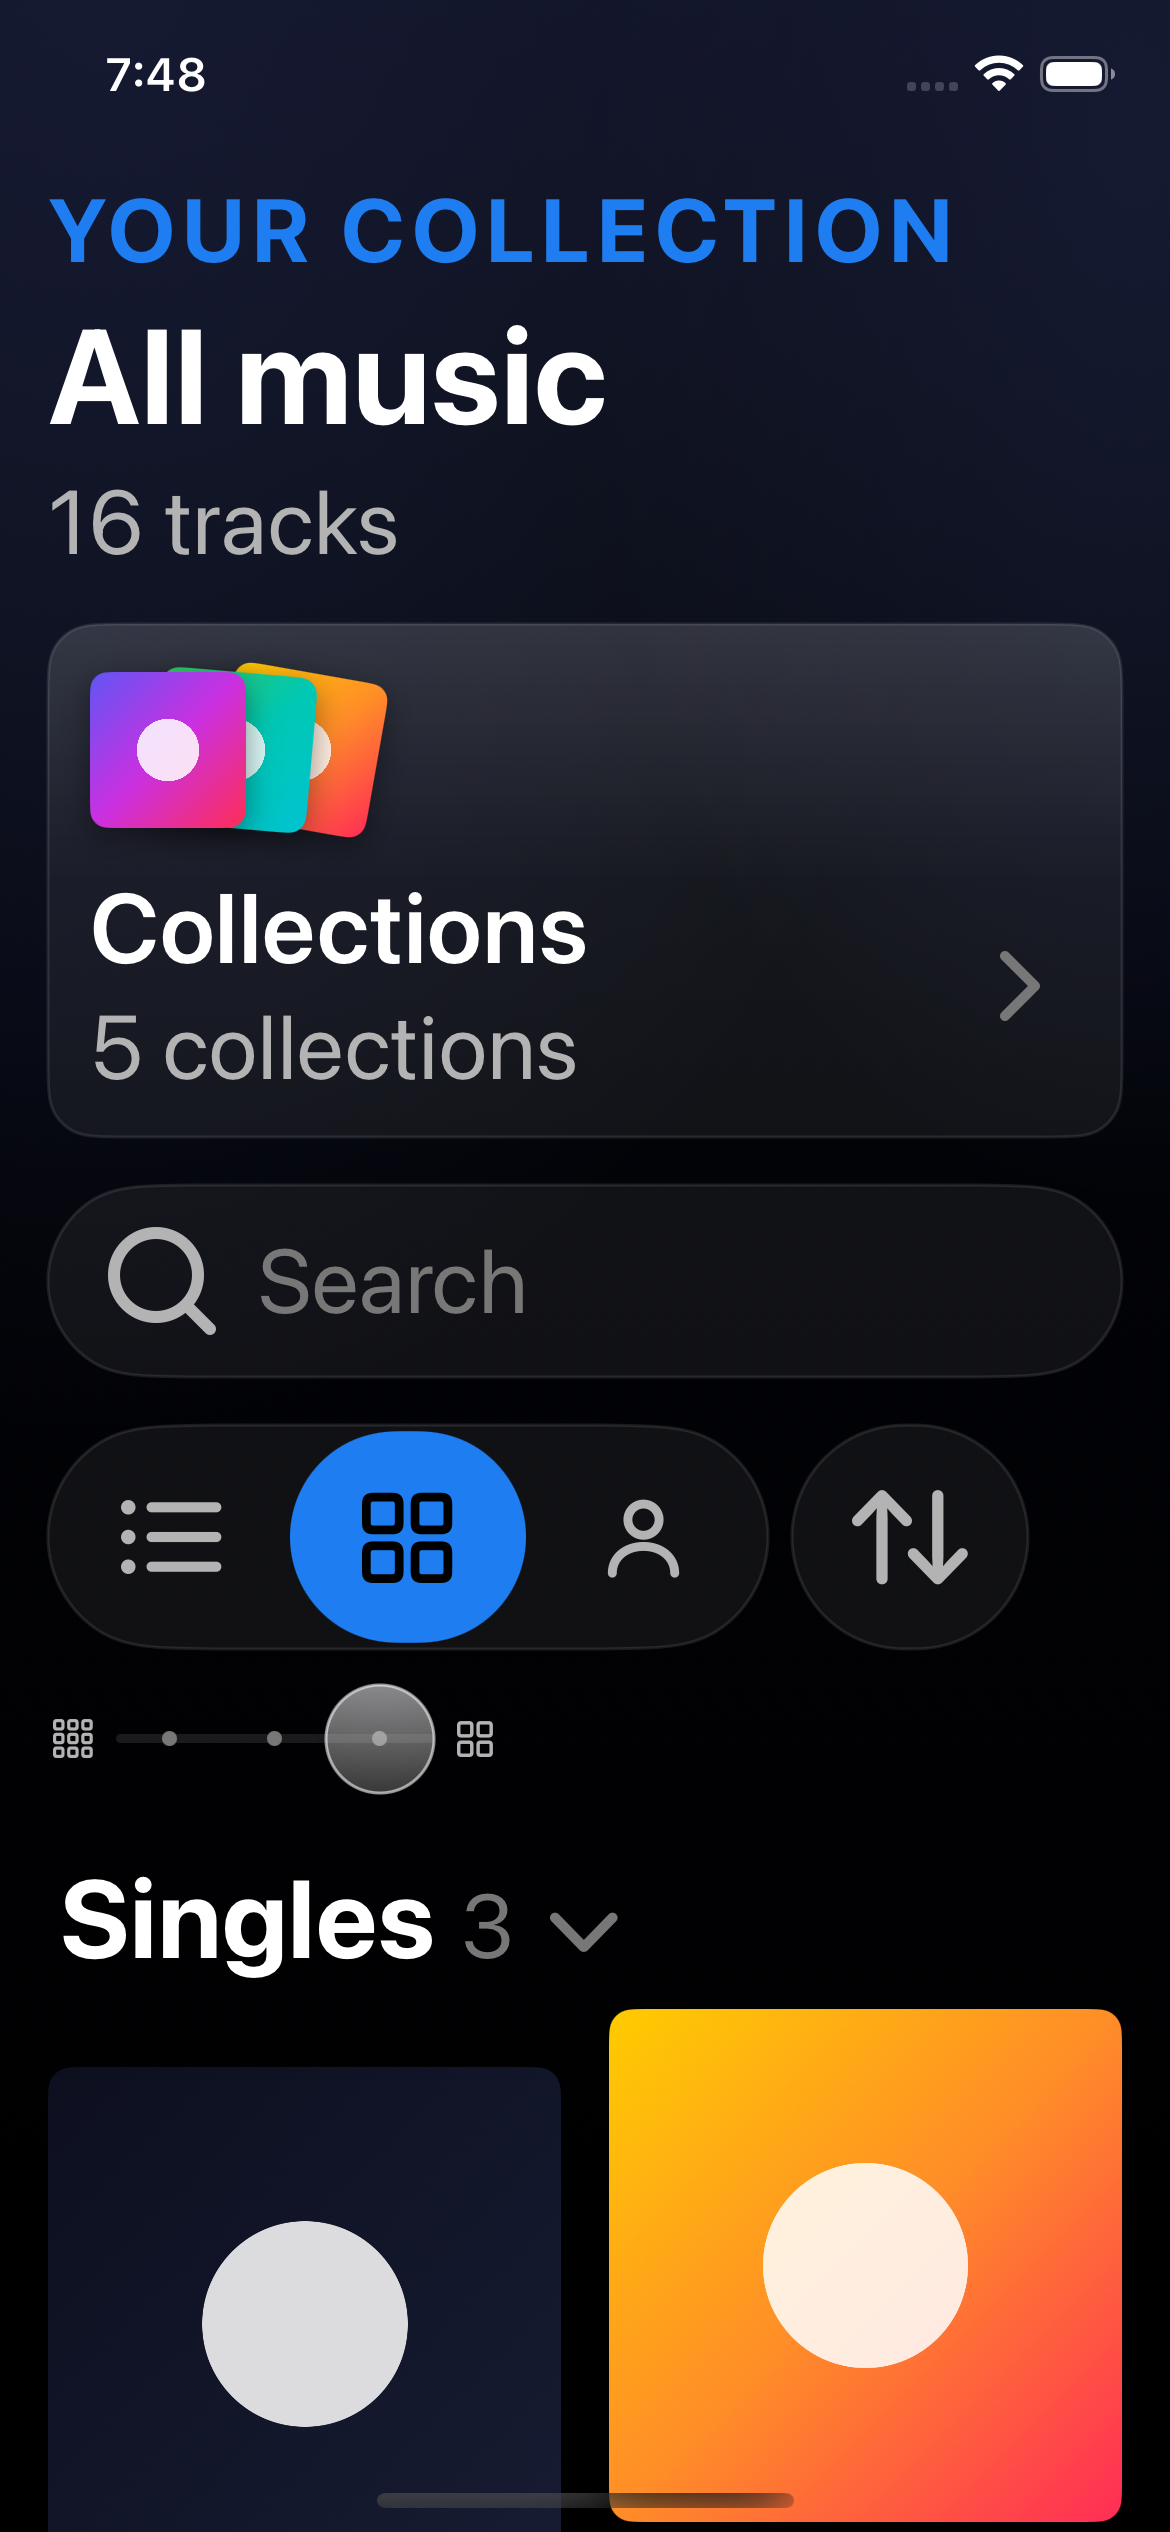
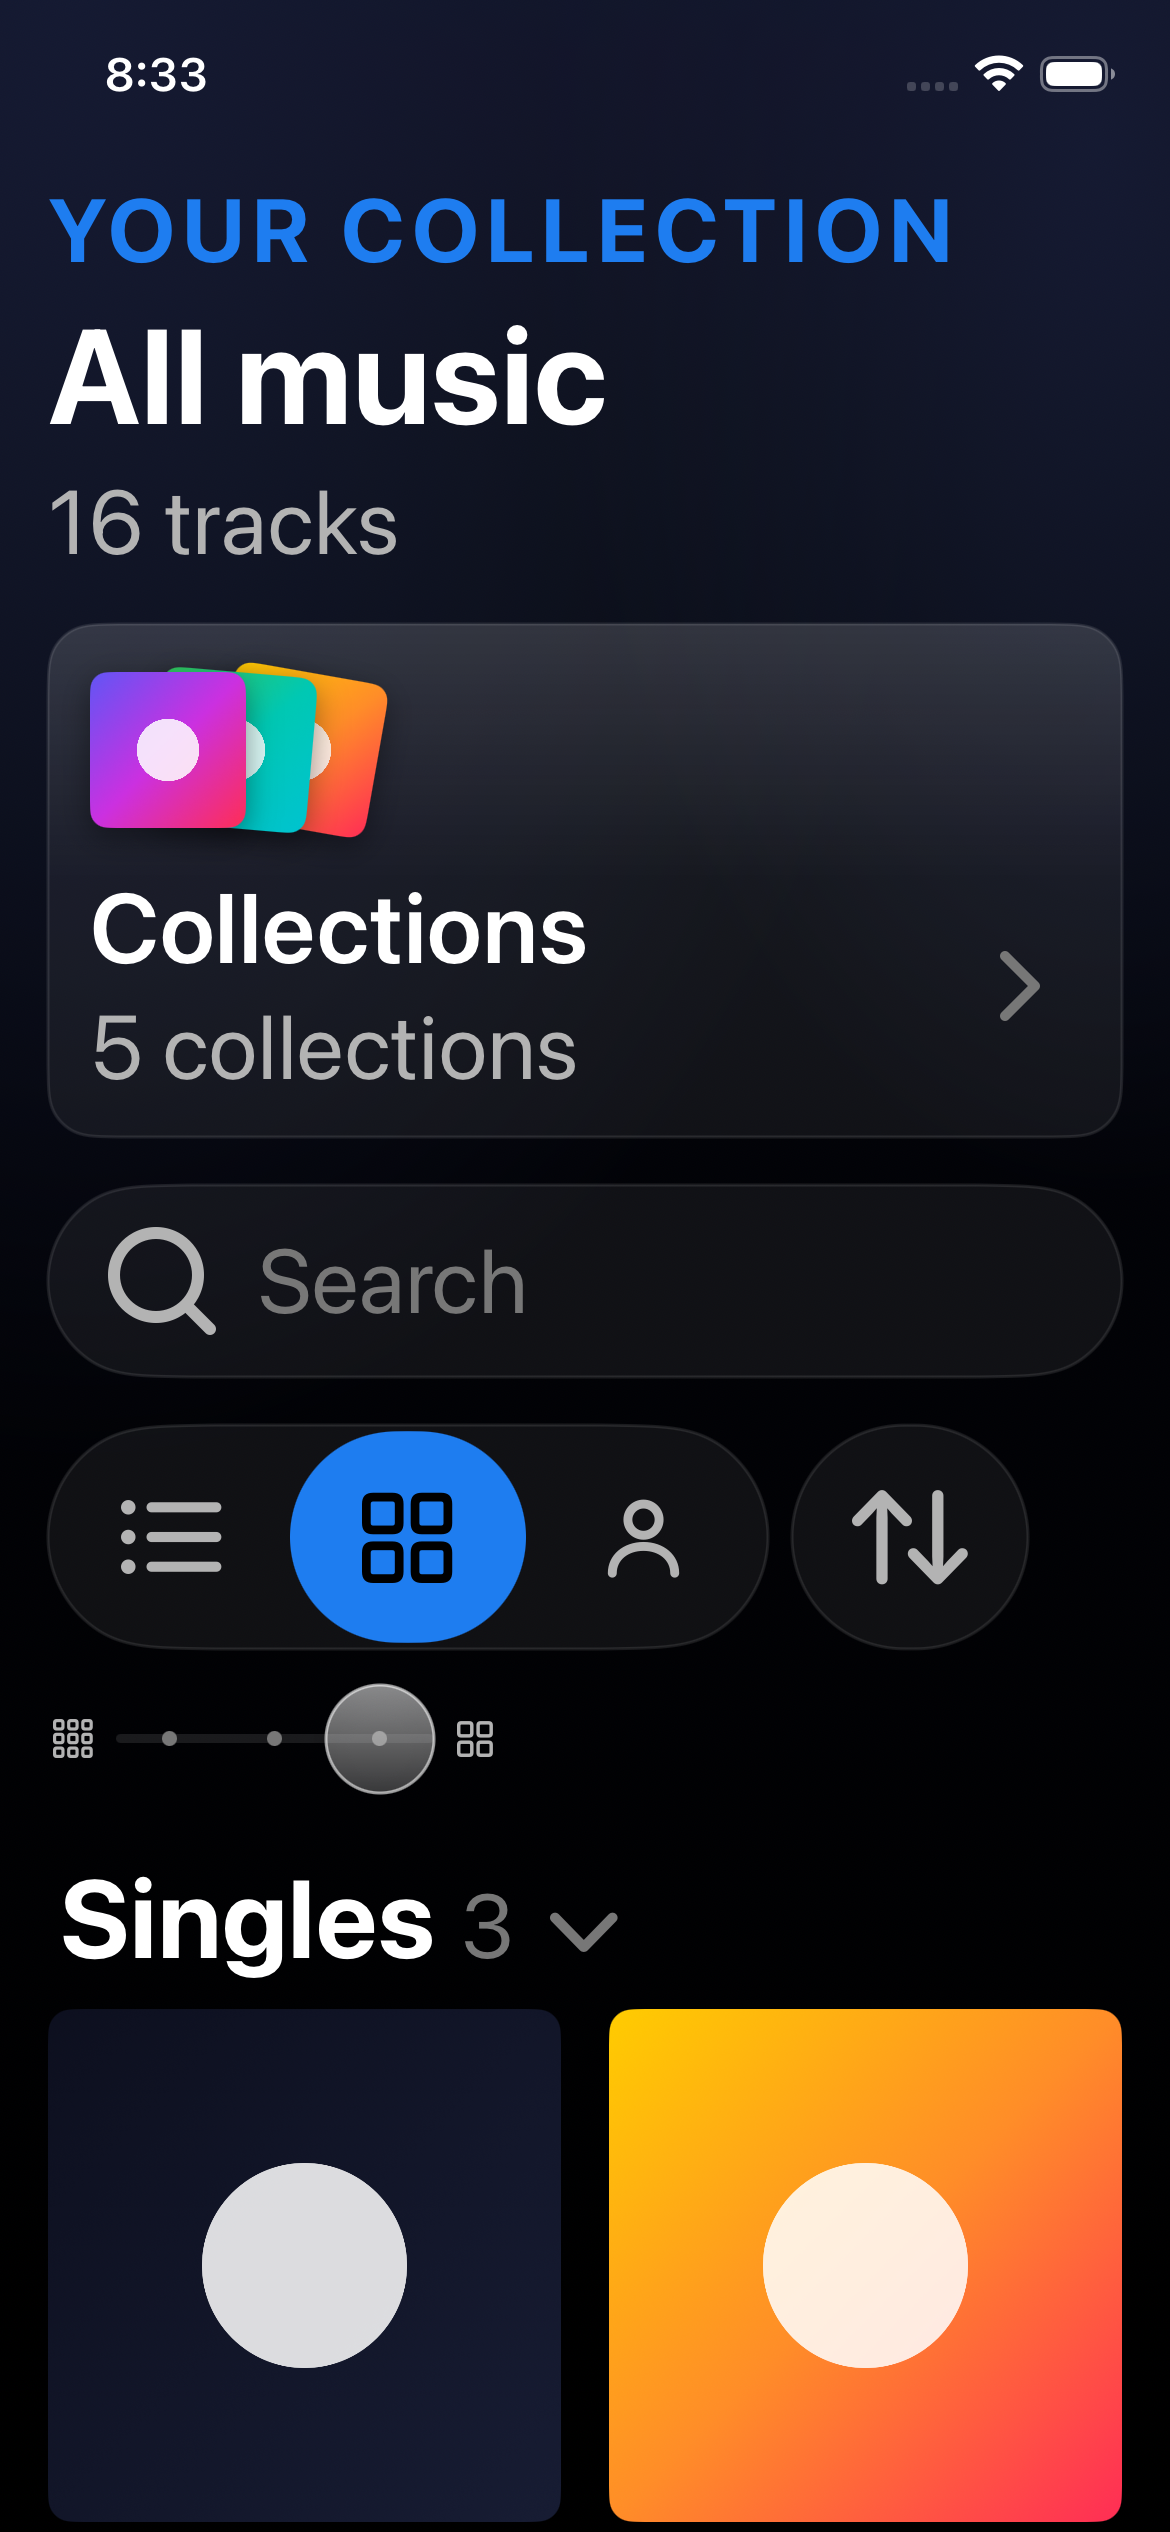
Fix #360 review: top-align cover grid, drop dead new-collection alert, test slider logic

Changed region(s): [[0.0308, 0.78, 0.6769, 1.0], [0.0923, 0.0, 0.1538, 0.0312]]

diff --git a/apps/ios/Locally/Views/Library/LibraryView.swift b/apps/ios/Locally/Views/Library/LibraryView.swift
@@ -71,10 +71,7 @@ struct LibraryView: View {
     @State private var path = NavigationPath()
     /// The collections (#350): the row under the title, the Collections screen and a collection's queue share it.
     @State private var collections: CollectionsModel?
-    @State private var isNamingCollection = false
-    @State private var newCollectionName = ""
     /// A New collection whose save failed: an alert says so and offers the name again.
-    @State private var collectionCreateFailed = false
 
     /// A release's cover identity: a replaced cover bumps `updatedAt`.
     private struct CoverKey: Hashable {
@@ -228,18 +225,6 @@ struct LibraryView: View {
                 if let collections {
                     CollectionDetailView(model: collections, id: route.id, startsEditing: route.startsEditing) { path = NavigationPath() }
                 }
-            }
-            .nameAlert(Copy.Collections.nameTitle, action: Copy.Collections.create, isPresented: $isNamingCollection, text: $newCollectionName) { name in
-                do {
-                    if let id = try collections?.create(name: name) { path.append(CollectionRoute(id: id)) }
-                } catch {
-                    newCollectionName = name
-                    collectionCreateFailed = true
-                }
-            }
-            .alert(Copy.Collections.createFailed, isPresented: $collectionCreateFailed) {
-                Button(Copy.Collections.tryAgain) { isNamingCollection = true }
-                Button(Copy.Collections.cancel, role: .cancel) { newCollectionName = "" }
             }
             // `.onAppear` (not `.task`) so returning from `ReleaseDetailView`
             // after a save/delete re-reads the store and reflects it here.
@@ -657,7 +642,7 @@ struct LibraryView: View {
 
     private func coverGrid(_ items: [Release]) -> some View {
         LazyVGrid(
-            columns: [GridItem(.adaptive(minimum: gridSize.tileMinWidth), spacing: gridSize.tileGap)],
+            columns: [GridItem(.adaptive(minimum: gridSize.tileMinWidth), spacing: gridSize.tileGap, alignment: .top)],
             spacing: gridSize.tileGap
         ) {
             ForEach(items) { release in

diff --git a/apps/ios/LocallyTests/LibraryViewPrefsTests.swift b/apps/ios/LocallyTests/LibraryViewPrefsTests.swift
@@ -72,4 +72,24 @@ import Testing
         #expect(!size.showsSubtitle)
         #expect(CoverSize.medium.showsSubtitle && CoverSize.large.showsSubtitle)
     }
+
+    @Test func sliderPositionSnapsToTheNearestDetentAndClamps() {
+        #expect(CoverSize.nearest(fraction: 0) == .small)
+        #expect(CoverSize.nearest(fraction: 0.24) == .small)
+        #expect(CoverSize.nearest(fraction: 0.26) == .medium)
+        #expect(CoverSize.nearest(fraction: 0.5) == .medium)
+        #expect(CoverSize.nearest(fraction: 0.74) == .medium)
+        #expect(CoverSize.nearest(fraction: 0.76) == .large)
+        #expect(CoverSize.nearest(fraction: 1) == .large)
+        #expect(CoverSize.nearest(fraction: -3) == .small)
+        #expect(CoverSize.nearest(fraction: 7) == .large)
+    }
+
+    @Test func voiceOverSteppingStopsAtTheEnds() {
+        #expect(CoverSize.small.stepped(by: 1) == .medium)
+        #expect(CoverSize.medium.stepped(by: 1) == .large)
+        #expect(CoverSize.large.stepped(by: 1) == .large)
+        #expect(CoverSize.large.stepped(by: -1) == .medium)
+        #expect(CoverSize.small.stepped(by: -1) == .small)
+    }
 }

diff --git a/apps/ios/Locally/Domain/LibraryViewPrefs.swift b/apps/ios/Locally/Domain/LibraryViewPrefs.swift
@@ -29,6 +29,18 @@ enum CoverSize: Int, CaseIterable {
         self = storedRaw.flatMap(CoverSize.init(rawValue:)) ?? .default
     }
 
+    /// The detent nearest a position along the slider, 0 (left end) to 1 (right end); outside that range clamps.
+    static func nearest(fraction: CGFloat) -> CoverSize {
+        let last = CGFloat(allCases.count - 1)
+        let index = Int((min(max(fraction, 0), 1) * last).rounded(.toNearestOrAwayFromZero))
+        return CoverSize(rawValue: index) ?? .default
+    }
+
+    /// The detent `step` places along, stopping at the ends.
+    func stepped(by step: Int) -> CoverSize {
+        CoverSize(rawValue: min(max(rawValue + step, 0), CoverSize.allCases.count - 1)) ?? self
+    }
+
     /// Minimum tile width for the adaptive grid.
     var tileMinWidth: CGFloat { Theme.Library.tileMinWidth[rawValue] }
     /// Gap between tiles, both ways.

diff --git a/apps/ios/Locally/Views/Components/CoverSizeSlider.swift b/apps/ios/Locally/Views/Components/CoverSizeSlider.swift
@@ -67,15 +67,13 @@ struct CoverSizeSlider: View {
             .contentShape(Rectangle())
             .gesture(
                 DragGesture(minimumDistance: 0).onChanged { value in
-                    let fraction = (value.location.x - inset) / span
-                    let index = Int((fraction * last).rounded())
-                    if let size = CoverSize(rawValue: min(max(index, 0), sizes.count - 1)) { selection = size }
+                    selection = CoverSize.nearest(fraction: (value.location.x - inset) / span)
                 }
             )
         }
     }
 
     private func move(by step: Int) {
-        if let size = CoverSize(rawValue: selection.rawValue + step) { selection = size }
+        selection = selection.stepped(by: step)
     }
 }
